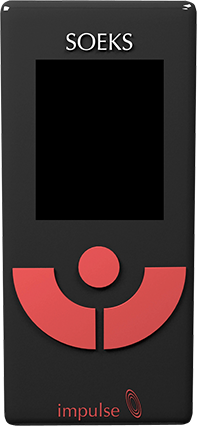
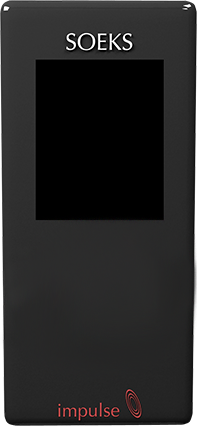
Buttons replaced

Changed region(s): [[0.0609, 0.5493, 1.0, 0.8239]]

diff --git a/static/less/style.less b/static/less/style.less
@@ -493,8 +493,15 @@ html, body {
 
 		&.center {
 			border-radius: unit(@buttonSize / 2, px);
-			left: 79px;
-			top: 247px;
+			left: 78px;
+			top: 246px;
+			width: 42px;
+			height: 42px;
+			background-image: url('../img/center-button.png');
+
+			&.down {
+				top: 247px;
+			}
 		}
 
 		&.left,
@@ -502,18 +509,24 @@ html, body {
 			width: 85px;
 			height: 85px;
 			top: 268px;
+
+			&.down {
+				top: 269px;
+			}
 		}
 
 		&.left {
 			left: 12px;
 			border-top-right-radius: 60px;
 			border-bottom-left-radius: 85px;
+			background-image: url('../img/left-button.png');
 		}
 
 		&.right {
 			right: 6px;
 			border-top-left-radius: 60px;
 			border-bottom-right-radius: 85px;
+			background-image: url('../img/right-button.png');
 		}
 	}
 

diff --git a/static/html/index.html b/static/html/index.html
@@ -13,7 +13,8 @@
 		<div id="device-wrapper">
 			<div class="device-control">
 				<button class="demo"></button>
-				<button class="lang"></button>
+				<button class="lang" data-lang="ru">Русский</button>
+				<button class="lang" data-lang="en">English</button>
 				<button class="sound"></button>
 				<button class="share"></button>
 			</div>
